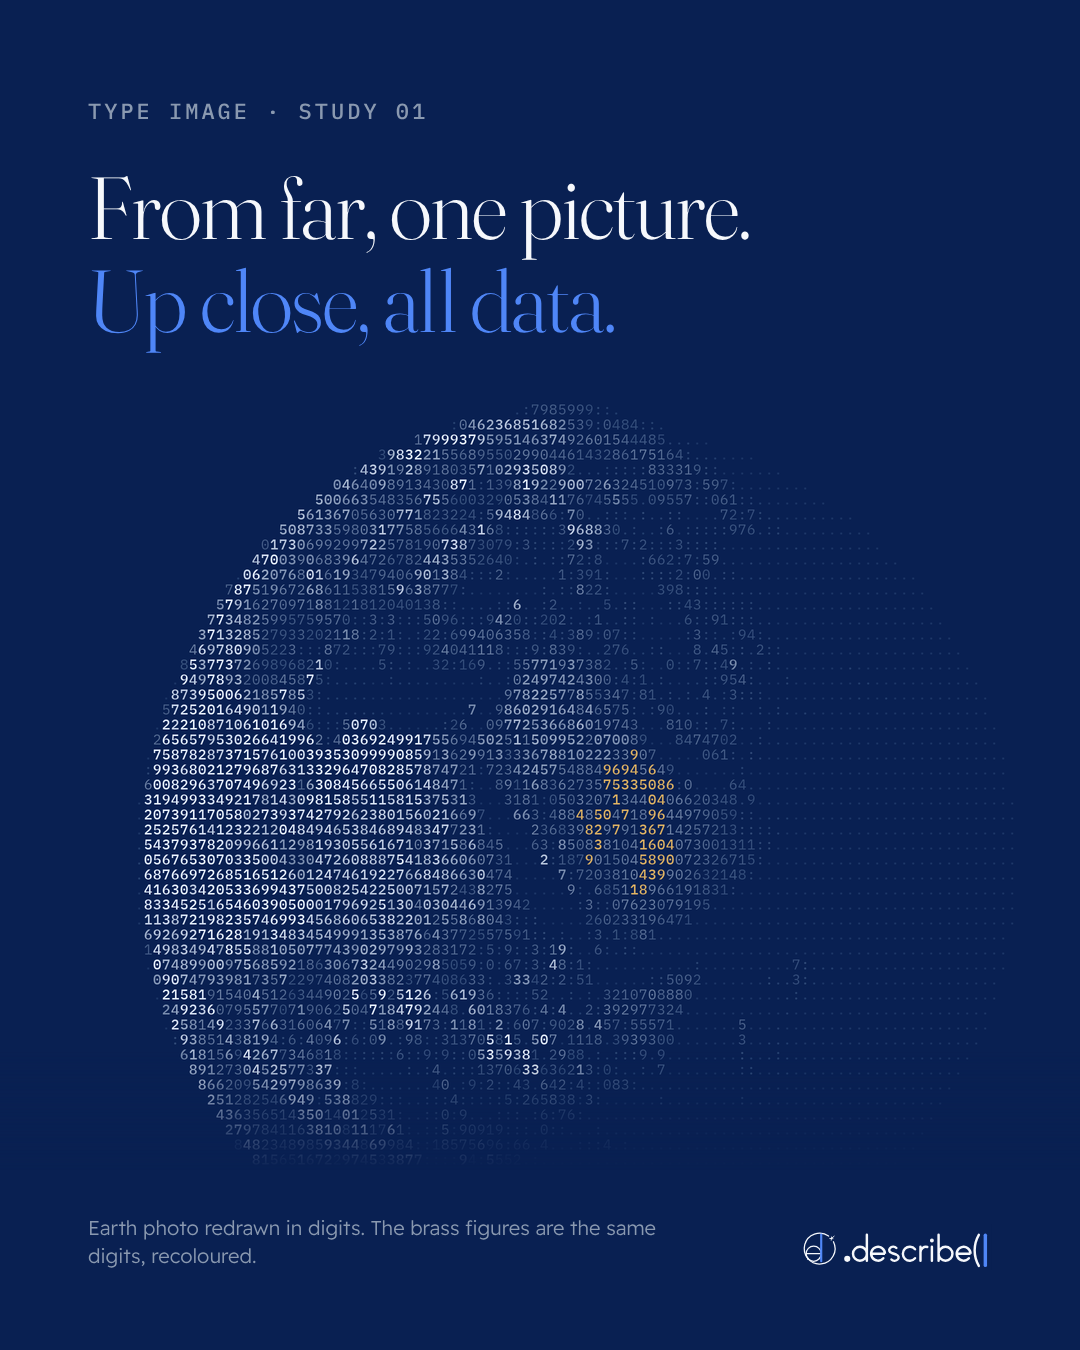
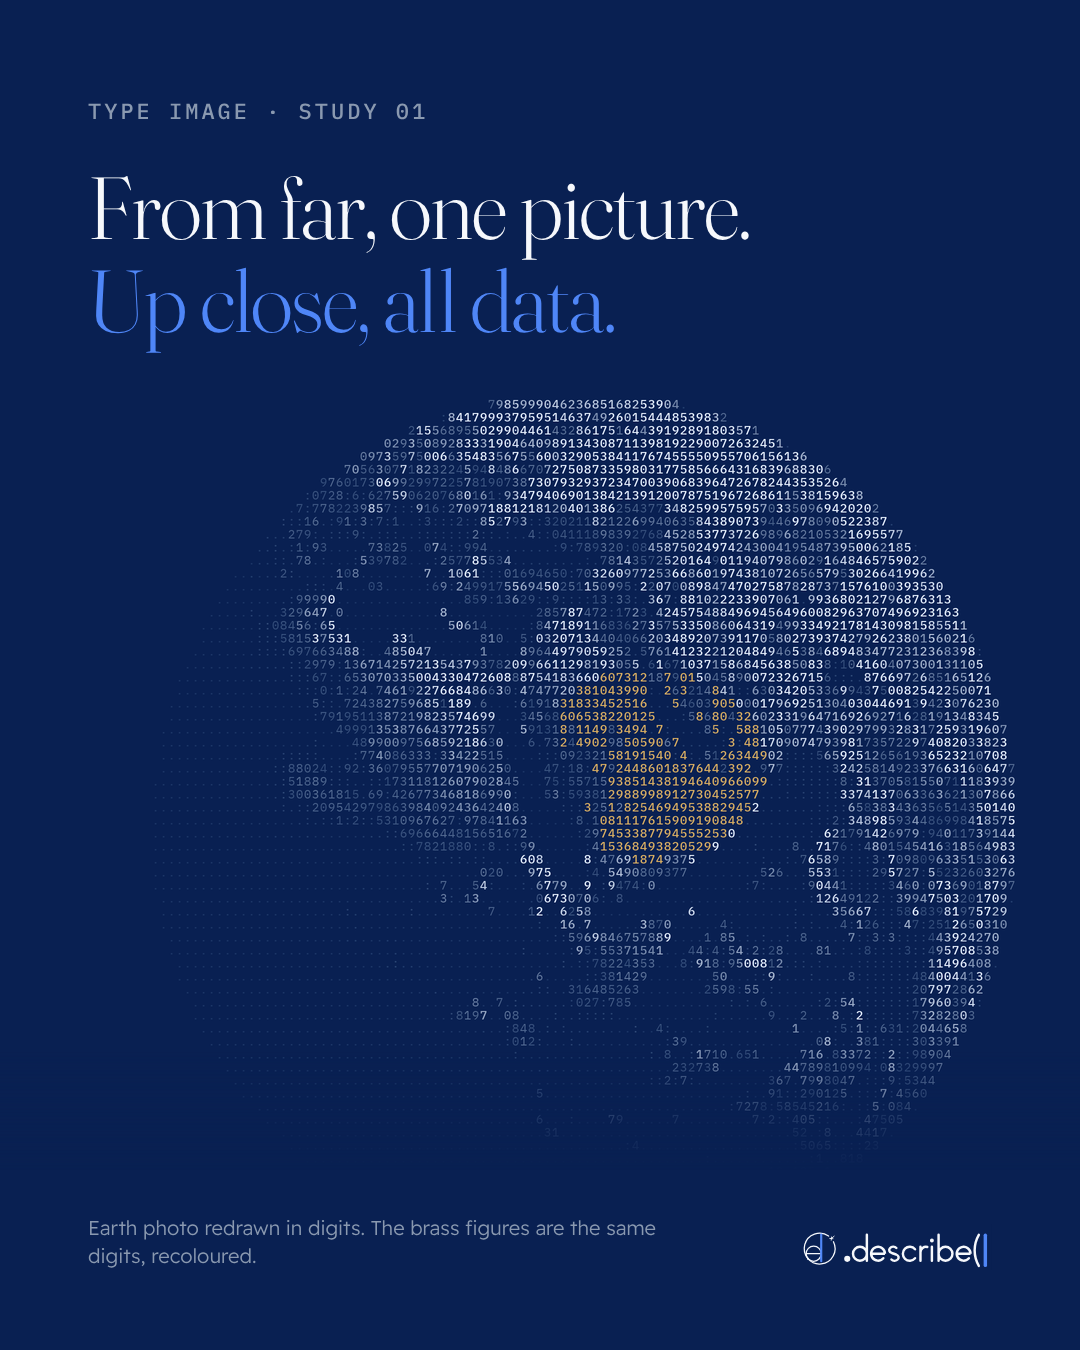
Digit globe from a full-size Replicate (FLUX 1.1 Pro) Earth photo
Claude-Session: https://claude.ai/code/session_01XD7Vxb3ZgYMh7zF9vBRghf

Changed region(s): [[0.1222, 0.28, 0.9472, 0.84], [0.7639, 0.7156, 0.7944, 0.7467]]

diff --git a/social/studies-2026-10-29/render.py b/social/studies-2026-10-29/render.py
@@ -20,22 +20,22 @@ def p1():
     W, H = 1080, 880
     S = 2
     src = np.zeros((H, W))
-    D = 940
-    g = contrast(lum('src/earth.png', D, D), 0.08, 0.9)
-    ox, oy = (W - D) // 2 + 60, 10
+    D = 900
+    g = contrast(lum('src/earth_hd.png', D, D), 0.06, 0.85)
+    ox, oy = (W - D) // 2 + 40, 0
     src[oy:oy + min(D, H - oy), ox:ox + D - max(0, ox + D - W)] = g[:H - oy, :W - ox]
     im = Image.new('RGB', (W * S, H * S), hexrgb(NAVY)); d = ImageDraw.Draw(im)
-    fr = ImageFont.truetype(F + 'IBMPlexMono-Regular.ttf', 14 * S)
-    fm = ImageFont.truetype(F + 'IBMPlexMono-Medium.ttf', 14 * S)
+    fr = ImageFont.truetype(F + 'IBMPlexMono-Regular.ttf', 12 * S)
+    fm = ImageFont.truetype(F + 'IBMPlexMono-Medium.ttf', 12 * S)
     lo, hi, hl = hexrgb('#1E3A6B'), hexrgb('#E6EFFF'), hexrgb('#D9AE62')
     r = np.random.default_rng(4)
-    cw, ch = 9, 15
-    # brass region: the Arabian Peninsula sits around (0.58, 0.45) of the photo
-    ax, ay = ox + 0.60 * D, oy + 0.47 * D
+    cw, ch = 8, 13
+    # brass region: the Arabian Peninsula sits around (0.57, 0.43) of the Replicate photo
+    ax, ay = ox + 0.57 * D, oy + 0.43 * D
     for j in range(0, H, ch):
         for i in range(0, W, cw):
             v = src[j, i]
-            inside = (i - (ox + 0.47 * D)) ** 2 + (j - (oy + 0.5 * D)) ** 2 < (0.47 * D) ** 2
+            inside = (i - (ox + 0.5 * D)) ** 2 + (j - (oy + 0.5 * D)) ** 2 < (0.48 * D) ** 2
             if v < 0.05:
                 if inside: d.text((i * S, j * S), '.', font=fr, fill=hexrgb('#1B3566'))
                 continue
